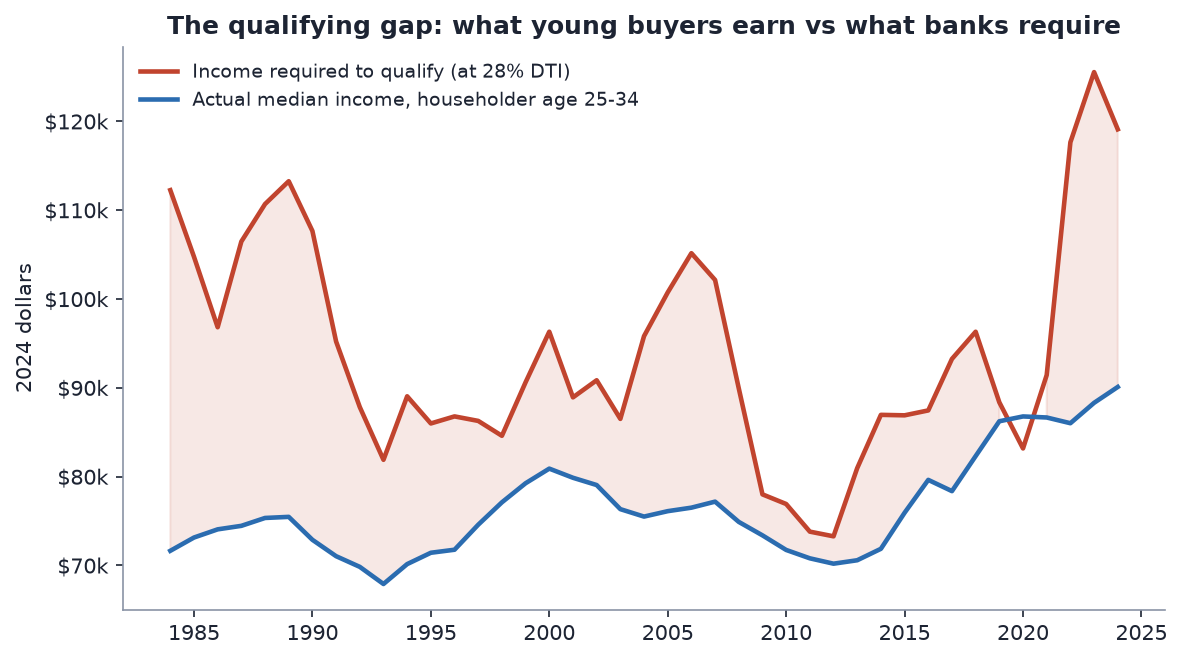
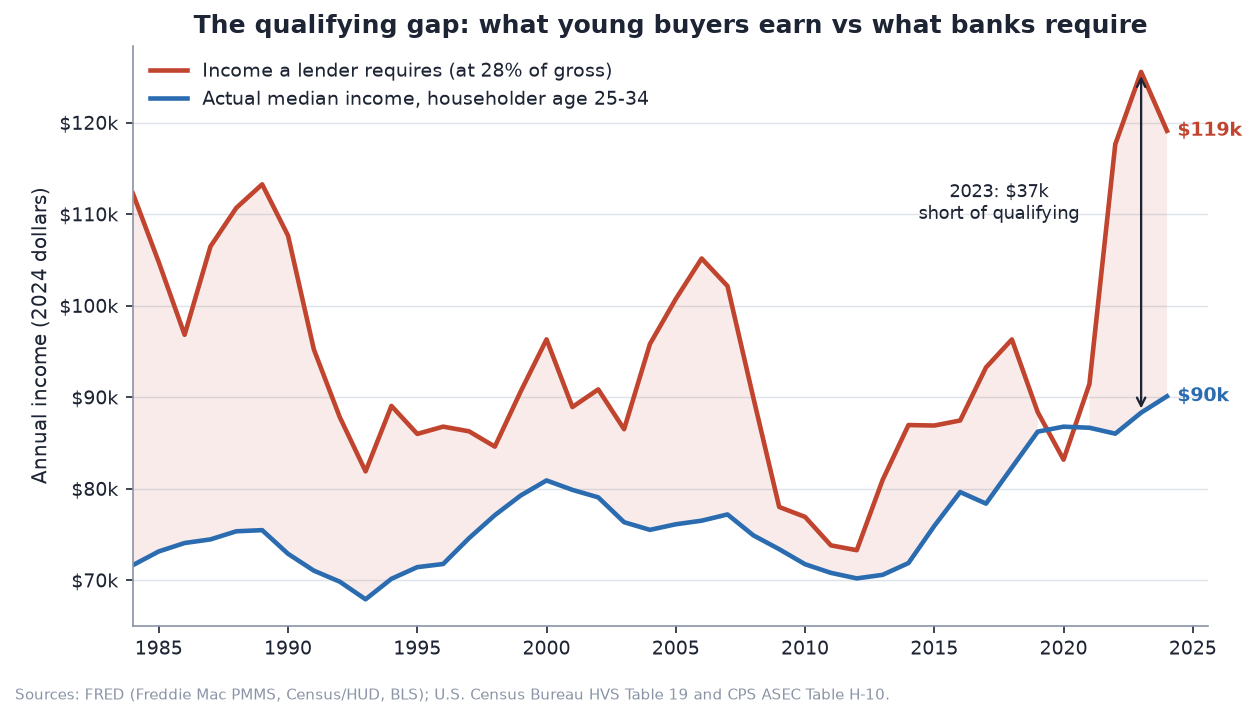
Rework figure generation for legibility and self-contained sourcing
The plots were readable but several actively misled or wasted space.

Fixes:
- Homeownership chart split into two stacked panels. A 28-point level gap
  between under-35 and all-ages meant a shared y-axis left ~60% of the
  panel empty and gave neither series usable vertical resolution; the
  finding (under-35 sits below its 1994 level) was invisible. Now the
  under-35 panel carries a 1994 reference line and labelled peak/latest.
- Affordability index: removed the fill_between shading. It filled from
  the line up to 100 across the whole chart, implying the shaded area was
  meaningful when it was not. The threshold line alone carries it.
- Income-vs-required: replaced two full-width curved annotation arrows
  with direct end labels and one vertical gap connector. The arrows swept
  across the plot and one label collided with an axis tick.
- Years-to-down-payment: y-axis used a 0.5 locator with a 0-decimal
  formatter, rendering duplicate tick labels ("10, 10, 10, 9, 9").
  Pinned to whole-year ticks.
- Fixed _label_point alignment: negative x-offsets were left-aligned, so
  labels ran back across or off the right edge.
- Switched the two-panel figure to constrained layout, removing a
  tight_layout incompatibility warning.

Additions across all figures: source footer, y-gridlines, axis limits
tight to observed data, consistent partial-year footnotes (2026 is YTD),
and on-chart annotation of the numbers quoted in the podcast script.

Underlying numbers are unchanged.

Changed region(s): [[0.0, 0.0909, 1.0, 1.0], [0.1523, 0.0, 0.9442, 0.0606], [0.5178, 0.3636, 0.6396, 0.7273]]

diff --git a/src/eda.py b/src/eda.py
@@ -9,6 +9,7 @@ import sys
 import matplotlib
 matplotlib.use("Agg")
 import matplotlib.pyplot as plt
+from matplotlib.ticker import MultipleLocator
 import pandas as pd
 
 from config import (
@@ -24,6 +25,10 @@ INK = "#1d2433"
 ACCENT = "#c1442e"
 COOL = "#2b6cb0"
 MUTED = "#8a94a6"
+GRID = "#dfe3ea"
+
+SOURCE = ("Sources: FRED (Freddie Mac PMMS, Census/HUD, BLS); "
+          "U.S. Census Bureau HVS Table 19 and CPS ASEC Table H-10.")
 
 plt.rcParams.update({
     "figure.dpi": 150,
@@ -32,17 +37,67 @@ plt.rcParams.update({
     "axes.titlesize": 12,
     "axes.titleweight": "bold",
     "axes.labelcolor": INK,
+    "axes.labelsize": 9.5,
     "axes.edgecolor": MUTED,
     "axes.spines.top": False,
     "axes.spines.right": False,
+    "axes.axisbelow": True,
     "text.color": INK,
     "xtick.color": INK,
     "ytick.color": INK,
-    "figure.autolayout": True,
+    "xtick.labelsize": 9,
+    "ytick.labelsize": 9,
+    "legend.fontsize": 9,
+    "figure.autolayout": False,
 })
 
 
-def _save(fig, name):
+def _style(ax, xlim=None):
+    """Apply the shared grid/limit treatment every panel uses."""
+    ax.grid(axis="y", color=GRID, lw=0.7)
+    ax.set_axisbelow(True)
+    if xlim is not None:
+        ax.set_xlim(*xlim)          # keep the axis tight to observed data
+    return ax
+
+
+def _label_point(ax, x, y, text, offset, color=INK):
+    """Annotate a data point, aligning the text away from the point.
+
+    A negative x-offset must right-align the text, otherwise it starts at the
+    offset position and runs back across (or off) the edge of the axes.
+    """
+    ha = "center" if offset[0] == 0 else ("right" if offset[0] < 0 else "left")
+    ax.annotate(text, xy=(x, y), xytext=offset, textcoords="offset points",
+                fontsize=8.5, color=color, ha=ha)
+
+
+def _dollars(ax, thousands=False):
+    if thousands:
+        ax.yaxis.set_major_formatter(lambda v, _: f"${v/1000:,.0f}k")
+    else:
+        ax.yaxis.set_major_formatter(lambda v, _: f"${v:,.0f}")
+
+
+def _partial_note(df):
+    """Footnote text naming any year built from less than 12 months of data."""
+    if "is_partial_year" not in df:
+        return None
+    partial = df.index[df["is_partial_year"].fillna(False).astype(bool)]
+    if not len(partial):
+        return None
+    yrs = ", ".join(str(y) for y in partial)
+    return f"{yrs} is a year-to-date average, not a full year."
+
+
+def _save(fig, name, note=None):
+    """Add the source footer (plus any caveat) and write the file."""
+    # constrained layout handles multi-panel gridspecs that tight_layout warns on
+    if fig.get_layout_engine() is None:
+        fig.tight_layout()
+    footer = SOURCE if note is None else f"Note: {note}  |  {SOURCE}"
+    fig.text(0.005, -0.01, footer, fontsize=7, color=MUTED,
+             ha="left", va="top", wrap=True)
     FIGURES.mkdir(parents=True, exist_ok=True)
     path = FIGURES / name
     fig.savefig(path, bbox_inches="tight", facecolor="white")
@@ -52,100 +107,197 @@ def _save(fig, name):
 
 def fig_income_vs_required(df):
     """The scissors: what a buyer earns vs what a lender requires."""
-    d = df.dropna(subset=["income_young"])
-    fig, ax = plt.subplots(figsize=(8, 4.5))
-    ax.plot(d.index, d["required_income_real2024"], color=ACCENT, lw=2.2,
-            label=f"Income required to qualify (at {FRONT_END_DTI:.0%} DTI)")
-    ax.plot(d.index, d["income_young_real2024"], color=COOL, lw=2.2,
+    d = df.dropna(subset=["income_young", "required_income_real2024"])
+    req, inc = d["required_income_real2024"], d["income_young_real2024"]
+    fig, ax = plt.subplots(figsize=(8.4, 4.6))
+
+    ax.fill_between(d.index, inc, req, where=req > inc,
+                    color=ACCENT, alpha=0.10, lw=0)
+    ax.plot(d.index, req, color=ACCENT, lw=2.2,
+            label=f"Income a lender requires (at {FRONT_END_DTI:.0%} of gross)")
+    ax.plot(d.index, inc, color=COOL, lw=2.2,
             label="Actual median income, householder age 25-34")
-    ax.fill_between(d.index, d["income_young_real2024"],
-                    d["required_income_real2024"],
-                    where=d["required_income_real2024"] > d["income_young_real2024"],
-                    color=ACCENT, alpha=0.12)
+
+    # Direct end labels beat arrows here: the series are far apart at the right
+    # edge, so a leader line would only add ink.
+    last = int(d.index.max())
+    for series, color in ((req, ACCENT), (inc, COOL)):
+        ax.annotate(f"${series.loc[last]/1000:.0f}k", xy=(last, series.loc[last]),
+                    xytext=(5, 0), textcoords="offset points", color=color,
+                    fontsize=9, fontweight="bold", va="center", ha="left",
+                    annotation_clip=False)
+
+    # One vertical connector marking the widest recent gap, labelled to its left
+    # so it can never collide with the right edge.
+    yr = 2023
+    lo, hi = inc.loc[yr], req.loc[yr]
+    ax.annotate("", xy=(yr, hi), xytext=(yr, lo),
+                arrowprops=dict(arrowstyle="<->", color=INK, lw=1.1))
+    # Sit the label in the open area left of the spike; directly beside the
+    # connector it would be crossed by the steeply rising required-income line.
+    ax.annotate(f"{yr}: ${(hi - lo)/1000:.0f}k\nshort of qualifying",
+                xy=(yr - 5.5, (hi + lo) / 2 * 1.04), fontsize=8.5, color=INK,
+                ha="center", va="center")
+
     ax.set_title("The qualifying gap: what young buyers earn vs what banks require")
-    ax.set_ylabel("2024 dollars")
-    ax.set_xlabel("")
-    ax.yaxis.set_major_formatter(lambda v, _: f"${v/1000:.0f}k")
-    ax.legend(frameon=False, loc="upper left", fontsize=9)
-    _save(fig, "01_income_vs_required.png")
+    ax.set_ylabel("Annual income (2024 dollars)")
+    _dollars(ax, thousands=True)
+    _style(ax, xlim=(d.index.min(), last + 1.6))
+    ax.legend(frameon=False, loc="upper left")
+    _save(fig, "01_income_vs_required.png", _partial_note(d))
 
 
 def fig_price_vs_payment(df):
     """Prices barely moved after 2021; the payment exploded."""
-    d = df.loc[2015:]
-    fig, ax = plt.subplots(figsize=(8, 4.5))
+    d = df.loc[2015:].dropna(subset=["median_price", "monthly_piti"])
     base = d.loc[2015]
-    ax.plot(d.index, d["median_price"] / base["median_price"] * 100,
-            color=COOL, lw=2.2, label="Median home price")
-    ax.plot(d.index, d["monthly_piti"] / base["monthly_piti"] * 100,
-            color=ACCENT, lw=2.2, label="Monthly payment (PITI)")
-    ax.axhline(100, color=MUTED, lw=0.8, ls="--")
-    ax.set_title("Price is not the payment (2015 = 100)")
+    price = d["median_price"] / base["median_price"] * 100
+    pay = d["monthly_piti"] / base["monthly_piti"] * 100
+
+    fig, ax = plt.subplots(figsize=(8, 4.6))
+    ax.fill_between(d.index, price, pay, where=pay > price,
+                    color=ACCENT, alpha=0.10, lw=0)
+    ax.plot(d.index, price, color=COOL, lw=2.2, label="Median home price")
+    ax.plot(d.index, pay, color=ACCENT, lw=2.2, label="Monthly payment on that home")
+    ax.axhline(100, color=MUTED, lw=0.9, ls=(0, (4, 3)))
+
+    # Label the endpoints so the divergence is readable without the axis.
+    last = d.index.max()
+    for series, color in ((pay, ACCENT), (price, COOL)):
+        ax.annotate(f"+{series.loc[last] - 100:.0f}%",
+                    xy=(last, series.loc[last]), xytext=(5, 0),
+                    textcoords="offset points", color=color, fontsize=9,
+                    fontweight="bold", va="center", ha="left",
+                    annotation_clip=False)
+
+    ax.set_title("Same house, two very different stories (2015 = 100)")
     ax.set_ylabel("Index, 2015 = 100")
-    ax.legend(frameon=False, loc="upper left", fontsize=9)
-    _save(fig, "02_price_vs_payment.png")
+    _style(ax, xlim=(2015, last + 0.55))
+    ax.set_xticks(range(2015, last + 1, 2))
+    ax.legend(frameon=False, loc="upper left")
+    _save(fig, "02_price_vs_payment.png", _partial_note(d))
 
 
 def fig_decomposition(decomp):
     """How much of the payment jump was price, and how much was the rate."""
     d = decomp.loc[DECOMP_BASE_YEAR + 1:].dropna(subset=["total_change"])
-    fig, ax = plt.subplots(figsize=(8, 4.5))
-    ax.bar(d.index, d["price_effect"], color=COOL, label="Higher prices")
+    fig, ax = plt.subplots(figsize=(8, 4.6))
+
+    ax.bar(d.index, d["price_effect"], color=COOL, label="Higher prices", width=0.62)
     ax.bar(d.index, d["rate_effect"], bottom=d["price_effect"],
-           color=ACCENT, label="Higher interest rates")
+           color=ACCENT, label="Higher interest rates", width=0.62)
     ax.bar(d.index, d["interaction"],
            bottom=d["price_effect"] + d["rate_effect"],
-           color=MUTED, label="Interaction")
-    ax.plot(d.index, d["total_change"], "o", color=INK, ms=5,
-            label="Total increase")
-    ax.set_title(f"What drove the payment increase since {DECOMP_BASE_YEAR}")
-    ax.set_ylabel("Added monthly cost vs " + str(DECOMP_BASE_YEAR))
-    ax.yaxis.set_major_formatter(lambda v, _: f"${v:,.0f}")
-    ax.set_xticks(d.index)
+           color=MUTED, label="Interaction", width=0.62)
+
+    # Put the rate share inside the red block; it is the headline of the chart.
+    for yr in d.index:
+        r = d.loc[yr]
+        ax.text(yr, r["price_effect"] + r["rate_effect"] / 2,
+                f"{r['rate_effect_share']:.0f}%", ha="center", va="center",
+                color="white", fontsize=9, fontweight="bold")
+        ax.text(yr, r["total_change"] + 18, f"${r['total_change']:,.0f}",
+                ha="center", va="bottom", color=INK, fontsize=8.5)
+
+    ax.set_title(f"What actually drove the payment increase since {DECOMP_BASE_YEAR}")
+    ax.set_ylabel(f"Added monthly cost vs {DECOMP_BASE_YEAR}")
+    _dollars(ax)
+    _style(ax)
+    ax.set_ylim(0, d["total_change"].max() * 1.18)
     partial = d["is_partial_year"].fillna(False).astype(bool)
+    ax.set_xticks(list(d.index))
     ax.set_xticklabels([f"{y}*" if p else str(y) for y, p in zip(d.index, partial)])
-    if partial.any():
-        yrs = ", ".join(str(y) for y in d.index[partial])
-        ax.text(0.0, -0.16, f"* {yrs}: partial year, year-to-date average.",
-                transform=ax.transAxes, fontsize=8, color=MUTED)
-    ax.legend(frameon=False, fontsize=9)
-    _save(fig, "03_payment_decomposition.png")
+    ax.legend(frameon=False, loc="upper right", ncol=1)
+    note = _partial_note(d)
+    _save(fig, "03_payment_decomposition.png",
+          note.replace(str(d.index[partial][0]), f"* {d.index[partial][0]}")
+          if note and partial.any() else note)
 
 
 def fig_affordability_index(df):
     d = df.dropna(subset=["affordability_index"])
-    fig, ax = plt.subplots(figsize=(8, 4.5))
-    ax.plot(d.index, d["affordability_index"], color=ACCENT, lw=2.2)
-    ax.axhline(100, color=INK, lw=1.0, ls="--")
-    ax.annotate("100 = median young household\nexactly qualifies",
-                xy=(d.index.min() + 1, 100), xytext=(0, 8),
-                textcoords="offset points", fontsize=8, color=INK)
-    ax.fill_between(d.index, d["affordability_index"], 100,
-                    where=d["affordability_index"] < 100, color=ACCENT, alpha=0.10)
-    ax.set_title("Affordability index for householders age 25-34")
-    ax.set_ylabel("Index (100 = can just afford median home)")
-    _save(fig, "04_affordability_index.png")
+    ai = d["affordability_index"]
+    fig, ax = plt.subplots(figsize=(8, 4.6))
+
+    # No shaded band: nearly every year sits below 100, so filling that region
+    # tints the whole panel without distinguishing anything. The threshold line
+    # alone carries the meaning.
+    ax.axhline(100, color=INK, lw=1.1, ls=(0, (4, 3)))
+    ax.plot(d.index, ai, color=ACCENT, lw=2.2)
+
+    peak_yr, trough_yr, last_yr = int(ai.idxmax()), 2023, int(d.index.max())
+    for yr, txt, off in ((peak_yr, f"{peak_yr} peak: {ai.loc[peak_yr]:.0f}", (0, 11)),
+                         (trough_yr, f"{trough_yr}: {ai.loc[trough_yr]:.0f}", (0, -20)),
+                         (1984, f"1984: {ai.loc[1984]:.0f}\n(rates near 14%)", (7, -6))):
+        ax.plot(yr, ai.loc[yr], "o", color=ACCENT, ms=5.5, zorder=5)
+        _label_point(ax, yr, ai.loc[yr], txt, off)
+
+    ax.text(d.index.min() + 0.5, 100.9, "100 = the median young household exactly qualifies",
+            fontsize=8, color=INK, va="bottom")
+    ax.set_title("Can the typical 25-34 household afford the typical home?")
+    ax.set_ylabel("Affordability index")
+    _style(ax, xlim=(d.index.min() - 0.8, d.index.max() + 1.0))
+    ax.set_ylim(ai.min() - 4, max(ai.max(), 100) + 6)
+    _save(fig, "04_affordability_index.png", _partial_note(d))
 
 
 def fig_homeownership(df):
+    """Two panels: a 28-point level gap makes a shared y-axis unreadable."""
     d = df.dropna(subset=["hor_under_35"])
-    fig, ax = plt.subplots(figsize=(8, 4.5))
-    ax.plot(d.index, d["hor_under_35"], color=ACCENT, lw=2.2, label="Under 35")
-    ax.plot(d.index, d["hor_all"], color=COOL, lw=2.2, label="All ages")
-    ax.set_title("Homeownership rate: under 35 vs all households")
-    ax.set_ylabel("Percent of households owning")
-    ax.legend(frameon=False, fontsize=9)
-    _save(fig, "05_homeownership_by_age.png")
+    fig, (ax1, ax2) = plt.subplots(
+        2, 1, figsize=(8, 6.2), sharex=True, layout="constrained",
+        gridspec_kw={"height_ratios": [1.35, 1]})
+
+    u = d["hor_under_35"]
+    ref = u.loc[1994]
+    ax1.axhline(ref, color=MUTED, lw=1.0, ls=(0, (4, 3)))
+    ax1.plot(d.index, u, color=ACCENT, lw=2.2)
+    ax1.fill_between(d.index, u, ref, where=u < ref, color=ACCENT, alpha=0.10, lw=0)
+
+    peak_yr, last_yr = int(u.idxmax()), int(d.index.max())
+    for yr, txt, off in ((1994, f"1994: {ref:.1f}%", (7, -15)),
+                         (peak_yr, f"{peak_yr} peak: {u.loc[peak_yr]:.1f}%", (0, 11)),
+                         (last_yr, f"{last_yr}: {u.iloc[-1]:.1f}%", (-7, -18))):
+        ax1.plot(yr, u.loc[yr], "o", color=ACCENT, ms=5.5, zorder=5)
+        _label_point(ax1, yr, u.loc[yr], txt, off)
+
+    ax1.set_title("Under 35: still below where it started three decades ago")
+    ax1.set_ylabel("Percent owning, under 35")
+    ax1.set_ylim(u.min() - 1.6, u.max() + 2.2)
+    _style(ax1)
+
+    a = d["hor_all"]
+    ax2.plot(d.index, a, color=COOL, lw=2.2)
+    ax2.set_title("All households, for comparison", fontsize=10.5)
+    ax2.set_ylabel("Percent owning, all ages")
+    ax2.set_ylim(a.min() - 1.2, a.max() + 1.2)
+    _style(ax2, xlim=(d.index.min(), d.index.max()))
+
+    _save(fig, "05_homeownership_by_age.png", _partial_note(d))
 
 
 def fig_down_payment(df):
     d = df.dropna(subset=["years_to_save_down"])
-    fig, ax = plt.subplots(figsize=(8, 4.5))
-    ax.plot(d.index, d["years_to_save_down"], color=COOL, lw=2.2)
-    ax.set_title(f"Years to save a {DOWN_PAYMENT_PCT:.0%} down payment "
-                 f"(saving {SAVINGS_RATE:.0%} of gross income)")
-    ax.set_ylabel("Years")
-    _save(fig, "06_years_to_down_payment.png")
+    y = d["years_to_save_down"]
+    fig, ax = plt.subplots(figsize=(8, 4.6))
+    ax.plot(d.index, y, color=COOL, lw=2.2)
+
+    first_yr, last_yr = int(d.index.min()), int(d.index.max())
+    # Both labels sit below their points: the series is flat at the left edge
+    # and dips just above the right label's line, so above-placement collides.
+    for yr, off in ((first_yr, (9, -13)), (last_yr, (-8, -30))):
+        ax.plot(yr, y.loc[yr], "o", color=COOL, ms=5.5, zorder=5)
+        _label_point(ax, yr, y.loc[yr], f"{yr}: {y.loc[yr]:.1f} years", off)
+
+    ax.set_title(f"The barrier that got worse: years to save a "
+                 f"{DOWN_PAYMENT_PCT:.0%} down payment")
+    ax.set_ylabel(f"Years, saving {SAVINGS_RATE:.0%} of gross income")
+    # Force whole-year ticks: the default 0.5 locator with a 0-decimal
+    # formatter rendered duplicate labels ("10, 10, 10, 9, 9").
+    ax.yaxis.set_major_locator(MultipleLocator(1))
+    ax.yaxis.set_major_formatter(lambda v, _: f"{v:.0f}")
+    _style(ax, xlim=(first_yr - 1.2, last_yr + 1.2))
+    _save(fig, "06_years_to_down_payment.png", _partial_note(d))
 
 
 def print_findings(df, decomp):
